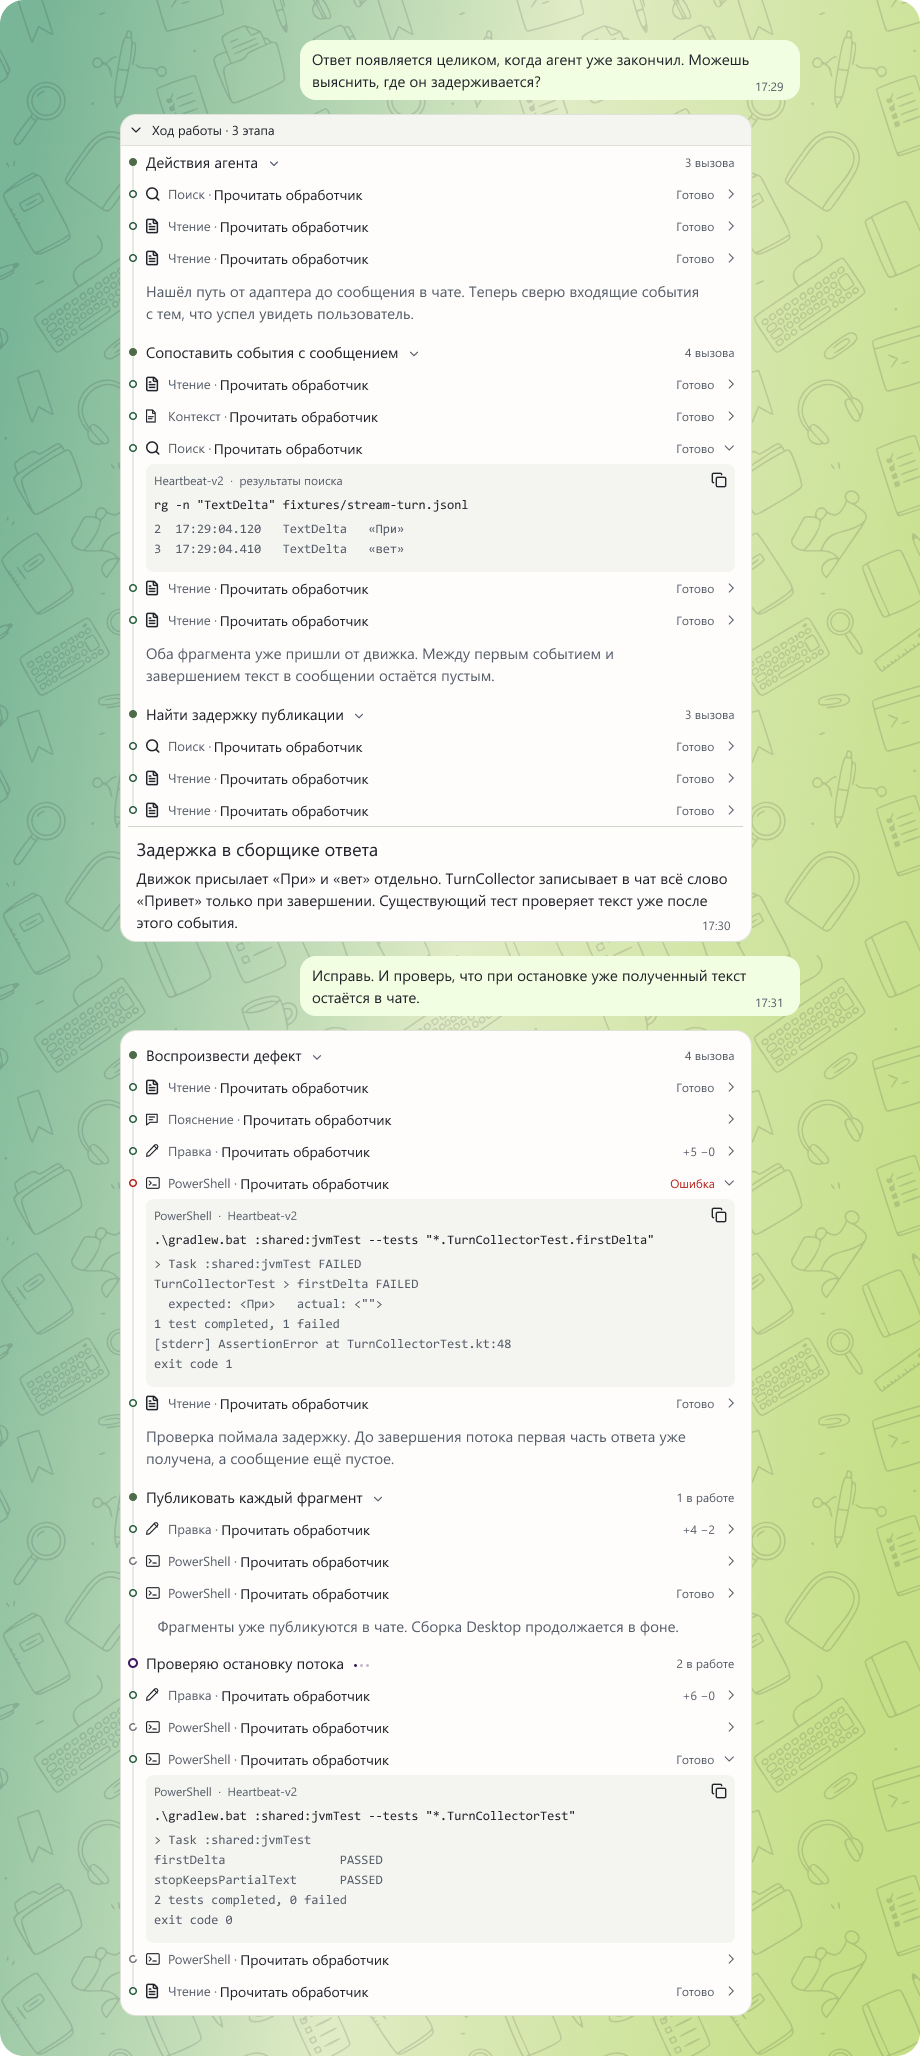
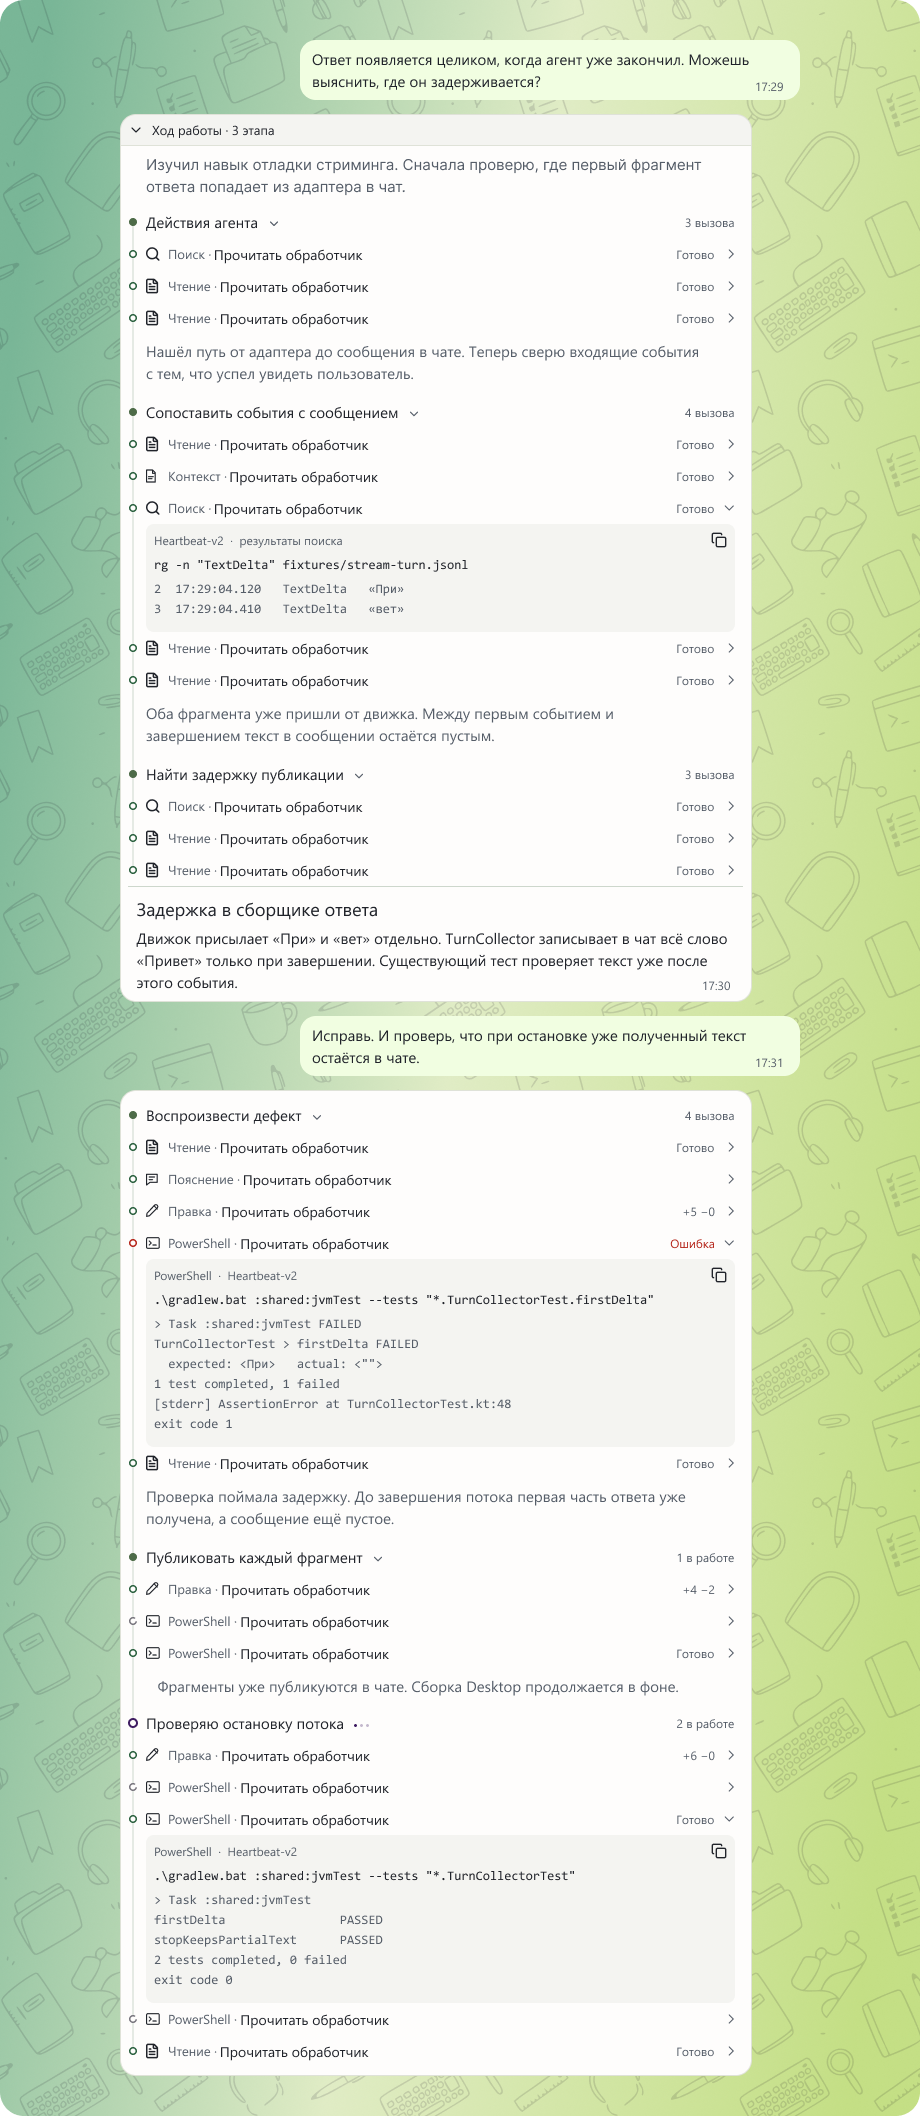
Show the initial preparation summary before the first agent stage

diff --git a/specs/desktop-aurora-agent-workspace.md b/specs/desktop-aurora-agent-workspace.md
@@ -6,6 +6,8 @@
 
 ## От отправки до первого события
 
+Первым публичным событием может быть промежуточный итог подготовки. Например, агент сообщает, какой навык он изучил и с чего начнёт проверку. Клиент показывает этот текст первым абзацем ответа при получении события. Под ним появляется цель следующего хода с индикатором работы. При раскрытии завершённой истории абзац остаётся над первым этапом. В этом примере подготовка приходит без отдельного события вызова инструмента, поэтому счётчик этапов остаётся равным трём. [До первого вызова](../previews/desktop-agent-turns/initial-summary-active.png) · [В завершённой истории](../previews/desktop-agent-turns/initial-summary.png)
+
 Слева остаётся навигация по проектам и диалогам. Над перепиской расположены название диалога, параметры агента, доступ к рабочей области и контекст. Поле ввода закреплено снизу. В многострочном черновике вложения видны над текстом. Пользователь может удалить отдельный файл. После отправки текст и оставшиеся вложения переходят в одну пользовательскую реплику.
 
 После подтверждения доставки в переписке сразу появляются реплика пользователя и область ответа. На оси видны полое фиолетовое кольцо, подпись «Агент работает» и три точки. В поле ввода доступна остановка. Пока агент не прислал событий, у ответа нет истории вызовов и времени завершения. [Ожидание первого события](https://www.figma.com/design/ivLmgulIBIkMzOw8sgvKxj/Aurora-DS?node-id=467-159620) · [Черновики с вложениями](https://www.figma.com/design/ivLmgulIBIkMzOw8sgvKxj/Aurora-DS?node-id=477-177480)
